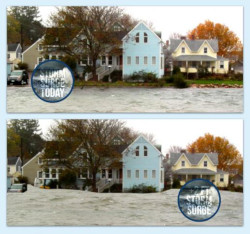
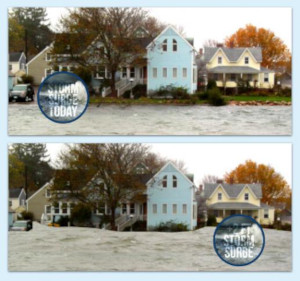
working on last popup

diff --git a/portsmouth.js b/portsmouth.js
@@ -27,6 +27,10 @@ var portsmouth1980 = L.tileLayer('./georeferencedMaps/1980/1980/{z}/{x}/{y}.png'
 
 
 imageloc="./thumbs/";
+var oceanMarker= L.marker([43.072536, -70.746833]);
+var oceanPopup = L.popup({className: "custom-popup"})
+    .setContent("This layer, from the City of Portsmouth's Coastal Resilience Initiative, shows what Portsmouth may look like in the year 2100 with the worst-case-scenario of a storm surge combined with rising ocean levels: eighteen feet. For more information, see: https://www.cityofportsmouth.com/planportsmouth/cri");
+oceanMarker.bindPopup(oceanPopup);
 
 var allsites =  L.geoJSON(sites, {
   pointToLayer: function (feature, latlng) {
@@ -68,22 +72,7 @@ map.on('popupopen', function(e) {
     map.panTo(map.unproject(px),{animate: true}); // pan to new center
 });
 
-var ocean =  L.geoJSON(ocean550 , {
-		onEachFeature: function (feature, layer) {
-			var out = [];
-				if (feature.properties){
-          out.push(feature.properties.Des + " For more information, see: " + feature.properties.URL);
-
-          out.push("<img src='./thumbs/demonstrationreduced.jpg'/>");
-
-
-					/*for(key in f.properties){
-						out.push(key+": "+f.properties[key]); //pushes out .geoJSON attributes exported from ArcGIS
-					}*/
-				}
-			layer.bindPopup(out.join("<br />"), {closeOnClick:true});
-
-		},});
+var ocean =  L.geoJSON(ocean550);
 
 var depth = L.geoJSON(depth550);
 //List of desired baseMap layers
@@ -154,6 +143,8 @@ function oceanCheck(filter) {
     map.addLayer(ocean);
     map.addLayer(oceanMarker);
   }
+  else
+    map.removeLayer(oceanMarker);
 }
 
 function mapCheck(filter) {

diff --git a/index.html b/index.html
@@ -48,7 +48,7 @@ position: absolute; width: 60%; height: 80px; bottom:40px; left: 20%; z-index: 8
 .leaflet-touch .leaflet-bar a:last-child { margin-top:10px;}
 .leaflet-popup-content {width:700px !important; height:325px !important; text-align: center; column-count:2}
 
-.custom-popup { width:500px !important}
+.custom-popup { width:500px !important; column-count: 1 !important}
 .leaflet-touch .leaflet-bar button {
     width: 40px;
     height: 28px;
